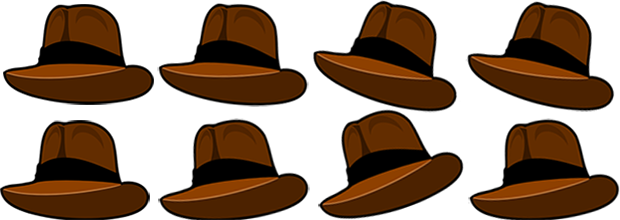
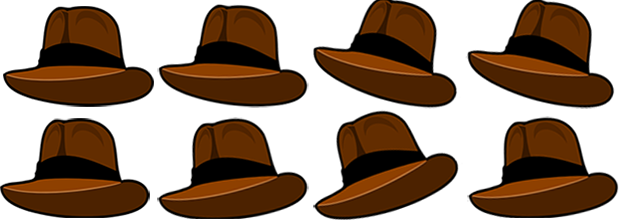
Animation now plays correctly

diff --git a/src/tiko/GameScreen.java b/src/tiko/GameScreen.java
@@ -62,7 +62,7 @@ public class GameScreen extends Screen {
                 true
         );
 
-        Animation playerAnimation = new Animation(player, 100f);
+        Animation playerAnimation = new Animation(player, 150f);
         playerAnimation.splitSheet(
                 "assets/hatsheet.png",
                 220 / 2,

diff --git a/src/tiko/engine/system/animation/Animation.java b/src/tiko/engine/system/animation/Animation.java
@@ -22,7 +22,8 @@ public class Animation {
 
     GameObject host;
     BufferedImage[] animationList;
-    boolean playing = false;
+    boolean isPlaying = false;
+    boolean loop = false;
     private float animationSpeed;
     private float timer;
     private int currentIndex;
